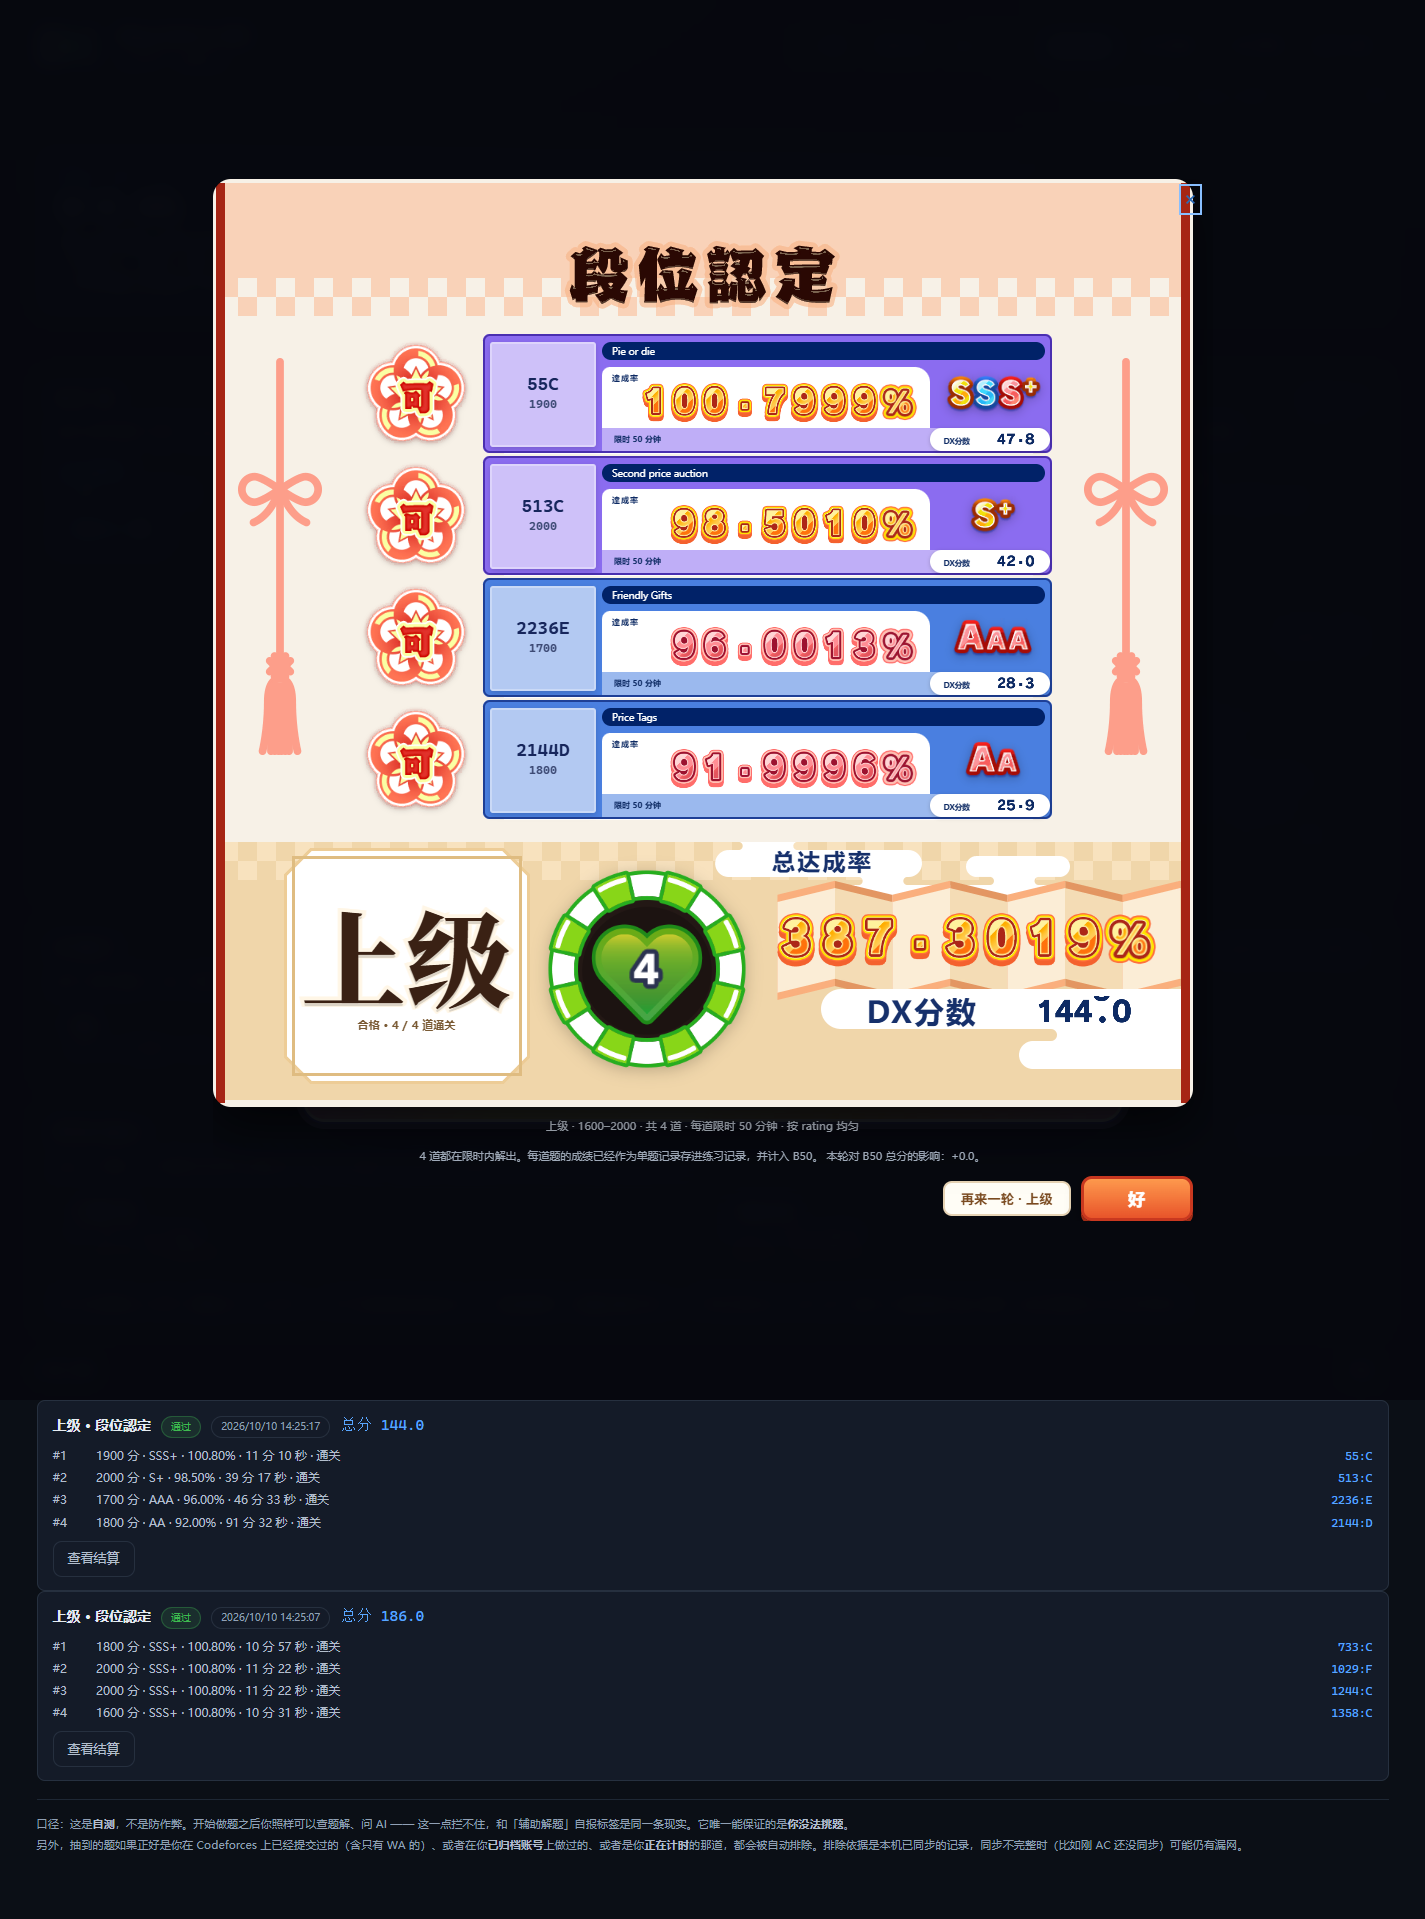
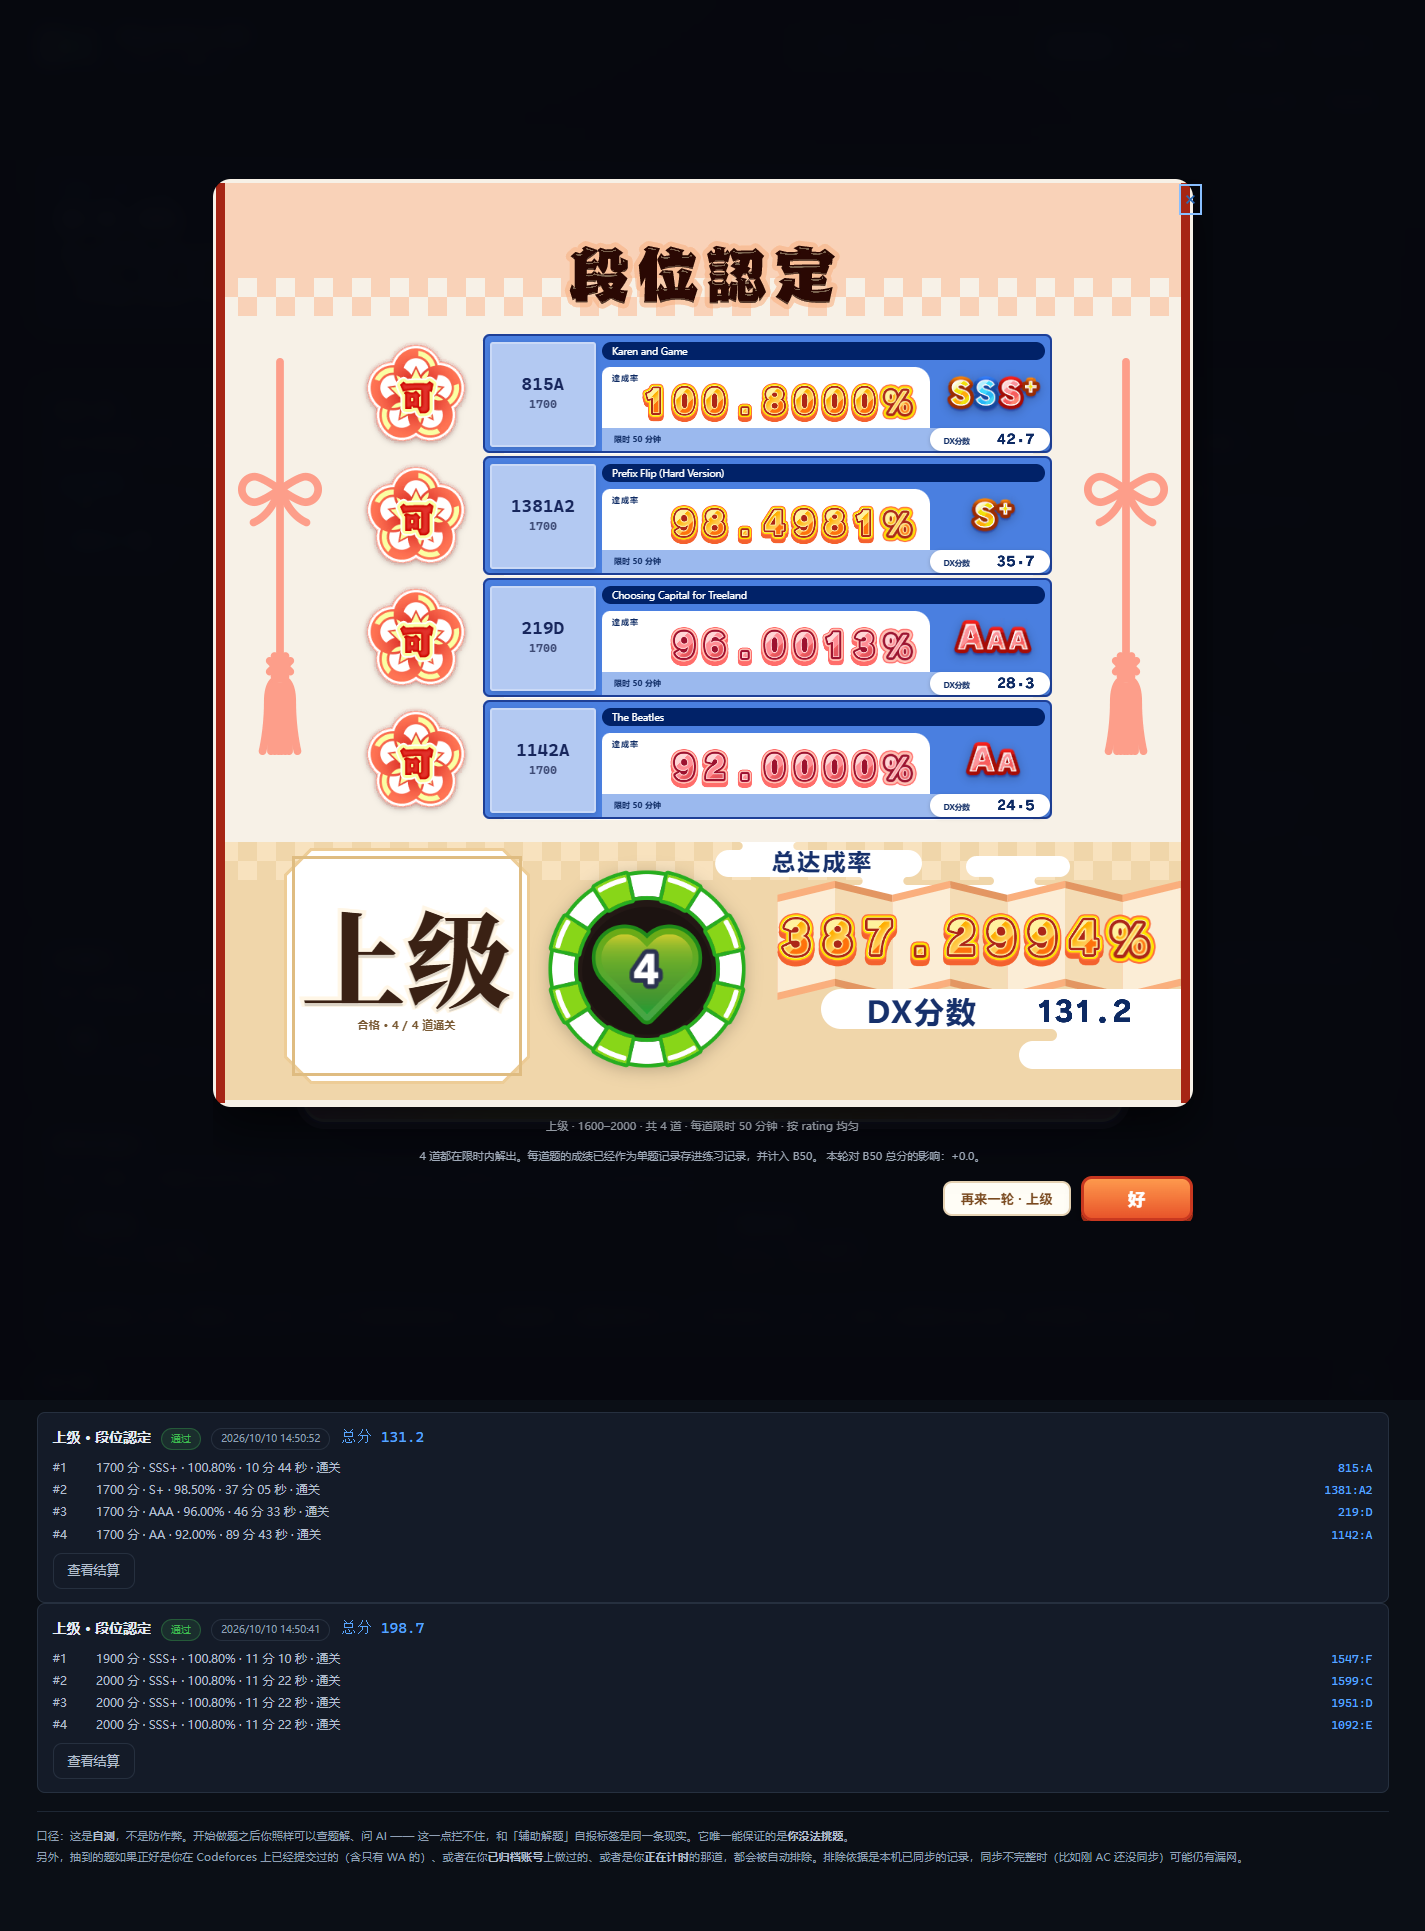
fix: drop the decimal cell instead of the atlas tile, and put the achievement decimal on the baseline

diff --git a/public/dan.js b/public/dan.js
@@ -1,4 +1,4 @@
-import { startAutoSync } from './auto-sync.js';
+import { startAutoSync } from './auto-sync.js';
 import { cfRatingColor } from './cf-rating-colors.js';
 
 /*
@@ -694,9 +694,9 @@ const NUM_FONTS = {
 // blue / gold / red，按达成率高低换。官方还有一张 `UI_NUM_Score_0001111_Base`，
 // 但那是一张**空图集**（整张几乎全透明，量下来 16 格一个字形都没有），不能用；
 // 「%」字形也正好只有蓝/金/红三张 —— 所以官方的档位就是三档，不是四档。
-'score-blue': { fill: 'num-score-blue', outline: '', atlas: [296, 392], cell: [74, 98], advance: 67, baseline: 0.949, chars: SCORE_INDEX },
-  'score-gold': { fill: 'num-score-gold', outline: '', atlas: [296, 392], cell: [74, 98], advance: 67, baseline: 0.949, chars: SCORE_INDEX },
-  'score-red': { fill: 'num-score-red', outline: '', atlas: [296, 392], cell: [74, 98], advance: 67, baseline: 0.949, chars: SCORE_INDEX },
+'score-blue': { fill: 'num-score-blue', outline: '', atlas: [296, 392], cell: [74, 98], advance: 67, baseline: 0.949, dotBaseline: 0.827, chars: SCORE_INDEX },
+  'score-gold': { fill: 'num-score-gold', outline: '', atlas: [296, 392], cell: [74, 98], advance: 67, baseline: 0.949, dotBaseline: 0.827, chars: SCORE_INDEX },
+  'score-red': { fill: 'num-score-red', outline: '', atlas: [296, 392], cell: [74, 98], advance: 67, baseline: 0.949, dotBaseline: 0.827, chars: SCORE_INDEX },
 };
 const NUM_COLS = 4;
 /** 达成率末尾那个大「%」字形：官方按分数分色，蓝/金/红三张。 */
@@ -793,11 +793,14 @@ function numText(text, fontKey, height, color, opts = {}) {
     // 小数点那一格画在字高中线上（26p 只有 8×8、90p 24×24），照原样排出来就是浮在数字中间
     // 的一粒，像断字符。官方那只方块是**底边压在数字基线上**的，所以按 `dotBaseline`
     // （那一格墨迹底线在格高里的比例）把它压下去 —— 字体自己的字形，只是摆到该在的位置。
+    //
+    // 注意：**不能**用挪 `background-position` 的办法下压 —— 图集是整张背景，往下挪 dy 就会把
+    // 上一格（同一列、上一行）的下半截露在这一格里（用户提过两次的那个 bug）。裁剪也救不了，
+    // 因为承载背景的那个 `b` 就是格子本身、并没有溢出。改成把**整格**往下挪：图集位置不动，
+    // 字形还是它自己那一格，只是这一格整体下沉 dy。
     const dy = ch === '.' && font.dotBaseline ? (font.baseline - font.dotBaseline) * height : 0;
-    const pos = `${-sx * scale}px ${-sy * scale + dy}px`;
-    // 背景图整块往下挪，会把**上一格**的下半截带进这一格里（用户看到的就是这个）。
-    // 只给被压过的小数点那一格加裁剪 —— 其余格子不动，免得把描边层裁掉。
-    if (dy) cell.style.overflow = 'hidden';
+    if (dy) cell.style.top = `${dy}px`;
+    const pos = `${-sx * scale}px ${-sy * scale}px`;
     cell.style.width = `${font.cell[0] * scale}px`;
     if (font.outline && opts.outline !== false) {
       const outline = el('b', 'dan-num-outline');
